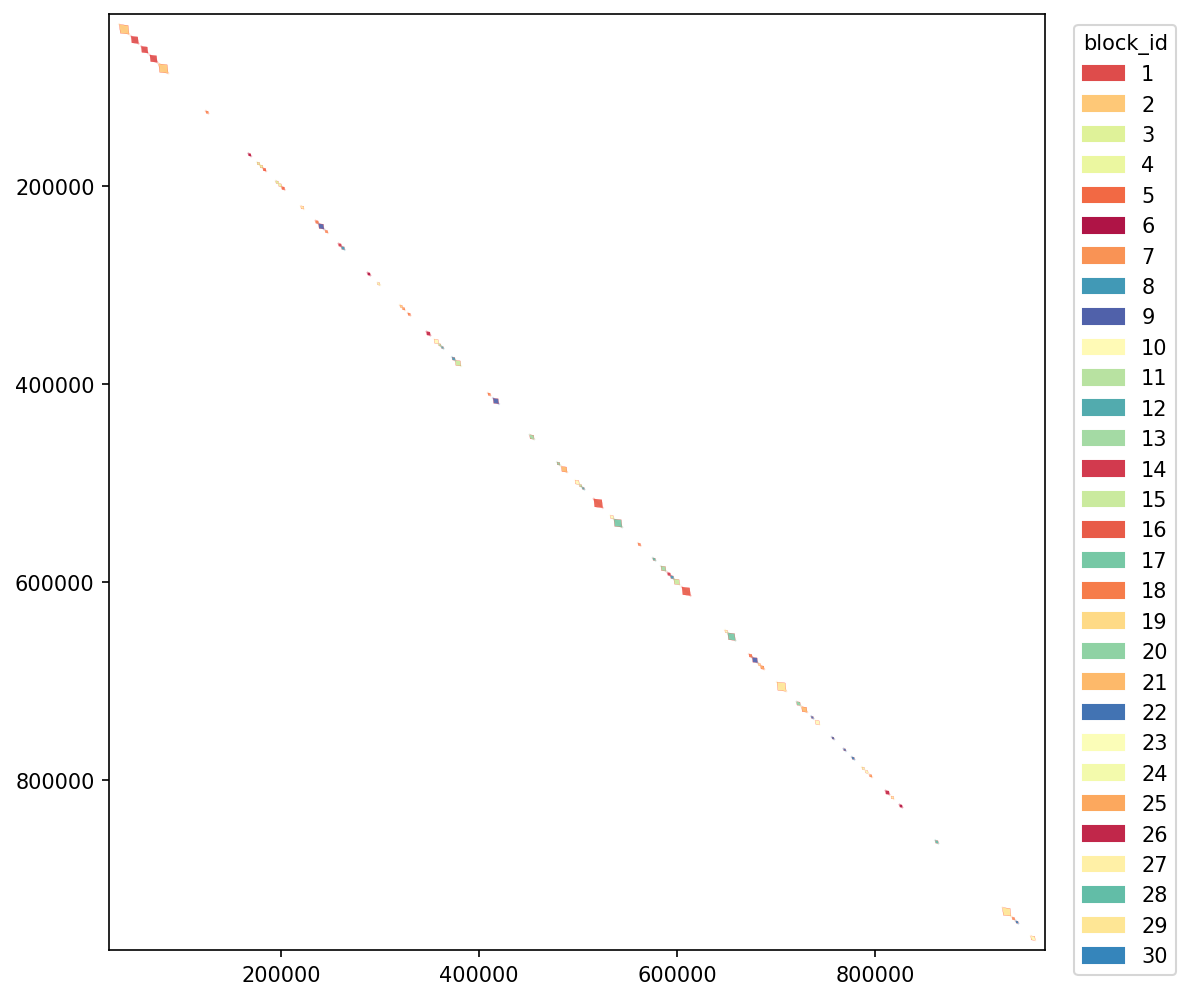
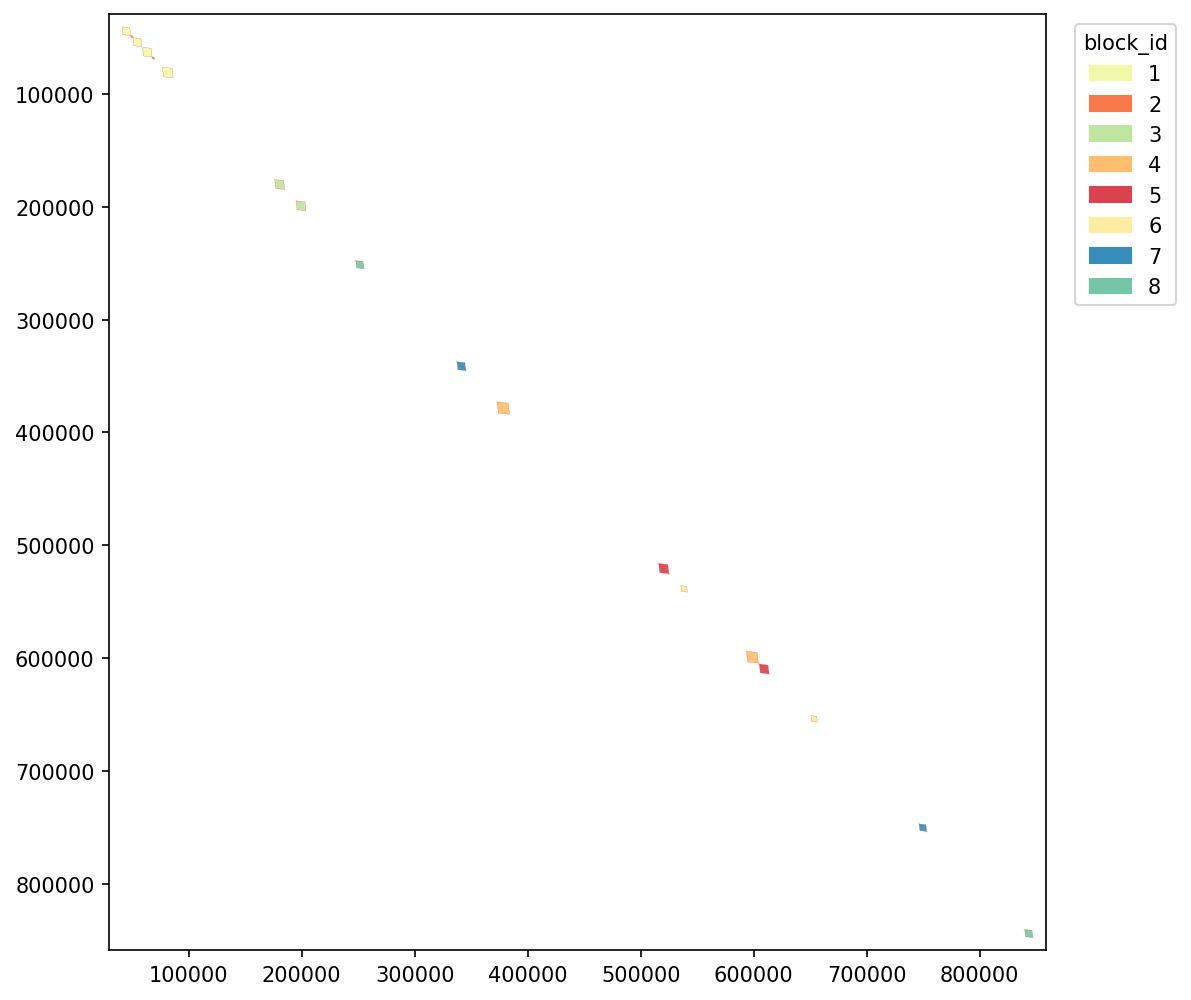
immloom (self)

diff --git a/scripts/run_pipeline.py b/scripts/run_pipeline.py
@@ -9,9 +9,9 @@ def main():
     p.add_argument("--input-file", required=True)
     p.add_argument("--out-dir", default="./immloom_out")
     p.add_argument("--pi-min", default=80.0)
-    p.add_argument("--segm-length-min", default=3000)
-    p.add_argument("--dist-max", default=3000)
-    p.add_argument("--block-length-min", default=3000)
+    p.add_argument("--segm-length-min", default=1000)
+    p.add_argument("--dist-max", default=2000)
+    p.add_argument("--block-length-min", default=1000)
     p.add_argument("--inv-plot", action="store_true", 
                    help="If set, produce inversion plot (default: false)")
     args = p.parse_args()

diff --git a/src/immloom/pipeline.py b/src/immloom/pipeline.py
@@ -42,7 +42,7 @@ def run_pipeline(input_path: Path,
                  block_length_min: int, 
                  inv_plot: bool):
 
-    init_segm_length_min = segm_length_min
+    init_segm_length_min = 10000
     
     repo_src = Path(__file__).resolve().parents[1]
     if str(repo_src) not in sys.path:
